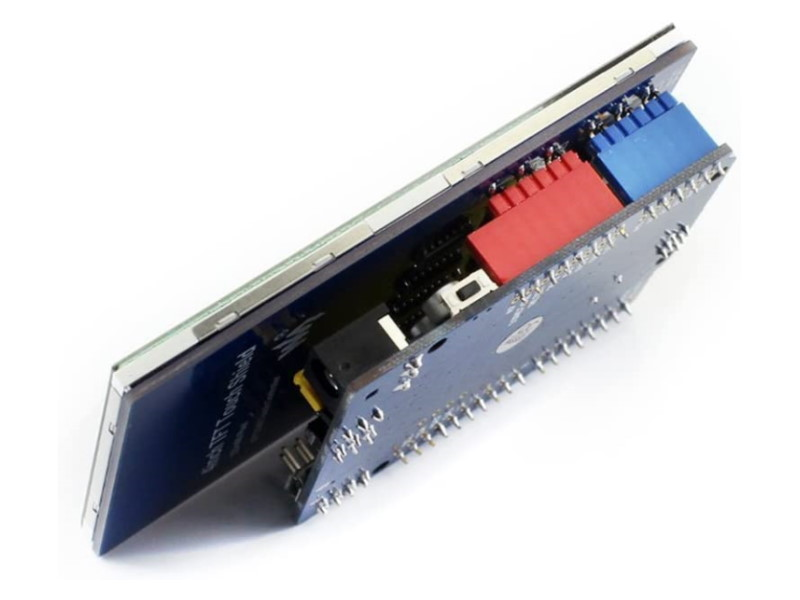
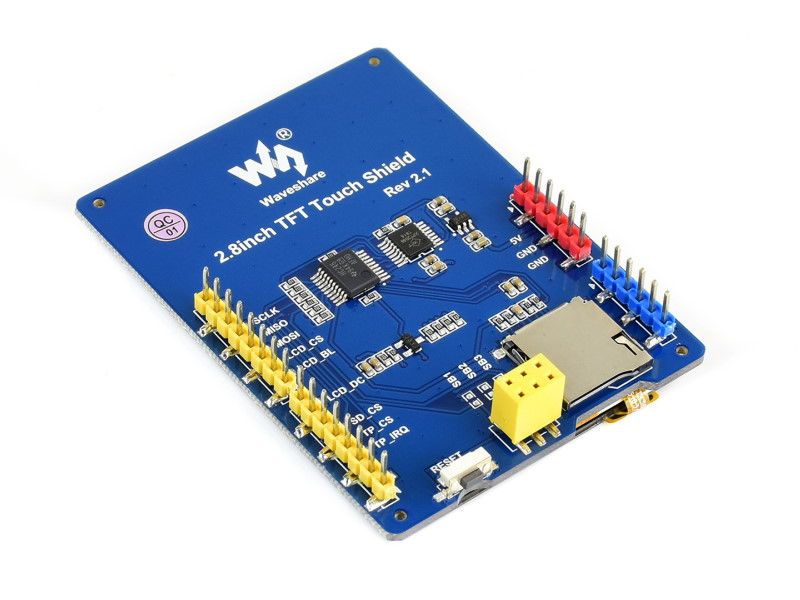
Update Waveshare TFT Touch Shield

diff --git a/docs/displays/waveshare-tft-touch-shield.md b/docs/displays/waveshare-tft-touch-shield.md
@@ -1,16 +1,23 @@
 # Waveshare TFT Touch Shield
 
 <div class="row justify-content-center">
-        <a href="../../assets/images/displays/waveshare-touch-shield-28-angle.jpg" data-toggle="lightbox" data-gallery="example-gallery" class="col-sm-4" data-title="Waveshare 2.8&quot; TFT Touch Shield" data-footer="Copyright © 2021, Waveshare, All Rights Reserved - Used with permission"">
-            <img src="../../assets/images/displays/waveshare-touch-shield-28-angle.jpg" class="img-fluid">
+        <a href="../../assets/images/displays/waveshare-touch-shield-28-front.jpg" data-toggle="lightbox" data-gallery="example-gallery" class="col-sm-4" data-title="Waveshare 2.8&quot; TFT Touch Shield" data-footer="Copyright © 2021, Waveshare, All Rights Reserved - Used with permission"">
+            <img src="../../assets/images/displays/waveshare-touch-shield-28-front.jpg" class="img-fluid">
         </a>
-        <a href="../../assets/images/displays/waveshare-touch-shield-35-side.jpg" data-toggle="lightbox" data-gallery="example-gallery" class="col-sm-4" data-title="Waveshare 3.5&quot; TFT Touch Shield" data-footer="Copyright © 2021, Waveshare, All Rights Reserved - Used with permission"">
-            <img src="../../assets/images/displays/waveshare-touch-shield-35-side.jpg" class="img-fluid">
+        <a href="../../assets/images/displays/waveshare-touch-shield-35-front.jpg" data-toggle="lightbox" data-gallery="example-gallery" class="col-sm-4" data-title="Waveshare 3.5&quot; TFT Touch Shield" data-footer="Copyright © 2021, Waveshare, All Rights Reserved - Used with permission"">
+            <img src="../../assets/images/displays/waveshare-touch-shield-35-front.jpg" class="img-fluid">
         </a>
-        <a href="../../assets/images/displays/waveshare-touch-shield-40-side.jpg" data-toggle="lightbox" data-gallery="example-gallery" class="col-sm-4" data-title="Waveshare 4&quot; TFT Touch Shield" data-footer="Copyright © 2021, Waveshare, All Rights Reserved - Used with permission"">
-            <img src="../../assets/images/displays/waveshare-touch-shield-40-side.jpg" class="img-fluid">
+        <a href="../../assets/images/displays/waveshare-touch-shield-40-front.jpg" data-toggle="lightbox" data-gallery="example-gallery" class="col-sm-4" data-title="Waveshare 4&quot; TFT Touch Shield" data-footer="Copyright © 2021, Waveshare, All Rights Reserved - Used with permission"">
+            <img src="../../assets/images/displays/waveshare-touch-shield-40-front.jpg" class="img-fluid">
         </a>
 </div>
+<div>
+        <a href="../../assets/images/displays/waveshare-touch-shield-28-profile.jpg" data-toggle="lightbox" data-gallery="example-gallery" class="col-sm-4" data-title="Waveshare 2.8&quot; TFT Touch Shield" data-footer="Copyright © 2021, Waveshare, All Rights Reserved - Used with permission"">more images...</a>
+        <a href="../../assets/images/displays/waveshare-touch-shield-28-side.jpg" data-toggle="lightbox" data-gallery="example-gallery" class="col-sm-4" data-title="Waveshare 2.8&quot; TFT Touch Shield" data-footer="Copyright © 2021, Waveshare, All Rights Reserved - Used with permission""></a>
+        <a href="../../assets/images/displays/waveshare-touch-shield-35-side.jpg" data-toggle="lightbox" data-gallery="example-gallery" class="col-sm-4" data-title="Waveshare 3.5&quot; TFT Touch Shield" data-footer="Copyright © 2021, Waveshare, All Rights Reserved - Used with permission""></a>
+        <a href="../../assets/images/displays/waveshare-touch-shield-40-side.jpg" data-toggle="lightbox" data-gallery="example-gallery" class="col-sm-4" data-title="Waveshare 4&quot; TFT Touch Shield" data-footer="Copyright © 2021, Waveshare, All Rights Reserved - Used with permission""></a>
+</div>
+
 
 Waveshare has a line of [TFT Touch Shields for Arduino][8]{target=_blank} which are also plug-and-play compatible with the ESPDUINO-32 *aka.* Wemos “TTGo” D1 R32 board.
 Unlike many other common Arduino UNO shields the Waveshare displays have an SPI interface with resistive touch controller and [backlight control](#backlight-control).
@@ -114,11 +121,11 @@ With 4 MByte of Flash and 2 MByte of PSRAM
 *To be tested*
 
 <div class="row justify-content-center">
-        <a href="../../assets/images/devices/adafruit_products_Metro_ESP32S2_top.jpg" data-toggle="lightbox" data-gallery="example-gallery" class="col-sm-6" data-title="Adafruit Metro ESP32-S2 Overview" data-footer="Attribution-ShareAlike Creative Commons - Kattni Rembor">
-            <img src="../../assets/images/devices/adafruit_products_Metro_ESP32S2_top.jpg" class="img-fluid">
+        <a href="../../assets/images/boards/adafruit_products_Metro_ESP32S2_top.jpg" data-toggle="lightbox" data-gallery="example-gallery" class="col-sm-6" data-title="Adafruit Metro ESP32-S2 Overview" data-footer="Attribution-ShareAlike Creative Commons - Kattni Rembor">
+            <img src="../../assets/images/boards/adafruit_products_Metro_ESP32S2_top.jpg" class="img-fluid">
         </a>
-        <a href="../../assets/images/devices/adafruit_products_Adafruit_Metro_ESP32-S2_pinout.png" data-toggle="lightbox" data-gallery="example-gallery" class="col-sm-6" data-title="Adafruit Metro ESP32-S2 Pinout" data-footer="Attribution-ShareAlike Creative Commons - Kattni Rembor">
-            <img src="../../assets/images/devices/adafruit_products_Adafruit_Metro_ESP32-S2_pinout.png" class="img-fluid">
+        <a href="../../assets/images/boards/adafruit_products_Adafruit_Metro_ESP32-S2_pinout.png" data-toggle="lightbox" data-gallery="example-gallery" class="col-sm-6" data-title="Adafruit Metro ESP32-S2 Pinout" data-footer="Attribution-ShareAlike Creative Commons - Kattni Rembor">
+            <img src="../../assets/images/boards/adafruit_products_Adafruit_Metro_ESP32-S2_pinout.png" class="img-fluid">
         </a>
 </div>
 
